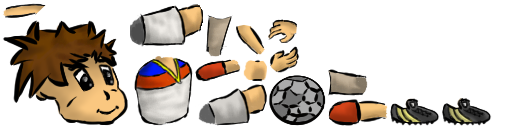
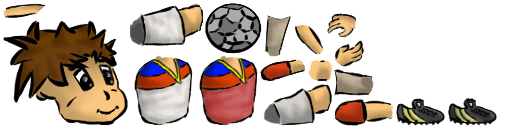
flip added and direction

Changed region(s): [[0.375, 0.0, 0.9688, 1.0]]

diff --git a/brainzballs/src/de/brainzballs/game/footballfield/team/Player.java b/brainzballs/src/de/brainzballs/game/footballfield/team/Player.java
@@ -8,6 +8,7 @@ import com.badlogic.gdx.scenes.scene2d.Actor;
 import com.esotericsoftware.spine.Animation;
 import com.esotericsoftware.spine.AnimationState;
 import com.esotericsoftware.spine.AnimationStateData;
+import com.esotericsoftware.spine.BoneData;
 import com.esotericsoftware.spine.Skeleton;
 import com.esotericsoftware.spine.SkeletonData;
 import com.esotericsoftware.spine.SkeletonJson;
@@ -54,6 +55,7 @@ public class Player extends Actor {
 		//Loading Player Skeleton and Animation
 		TextureAtlas atlas = new TextureAtlas(Gdx.files.internal("data/Field/Player/Player.atlas"));
 		SkeletonJson jsonSkeleton = new SkeletonJson(atlas);
+		jsonSkeleton.setScale(0.5f);
 		skeletonData = jsonSkeleton.readSkeletonData(Gdx.files.internal("data/Field/Player/Player.json"));
 		
 		renderer = new SkeletonRenderer();
@@ -70,11 +72,15 @@ public class Player extends Actor {
 		specialIdle[4] = skeletonData.findAnimation("idle6");
 		idleBall = skeletonData.findAnimation("idle1ball");
 		
-		skeletonData.findBone("root").setScaleX(0.5f);
-		skeletonData.findBone("root").setScaleY(0.5f);
-		
 		skeleton = new Skeleton(skeletonData);
 		skeleton.updateWorldTransform();
+		
+		if(direction == WEST) {
+			skeleton.setFlipX(true);
+			skeleton.setSkin("RedTeam");
+		}else{
+			skeleton.setSkin("WhiteTeam");
+		}
 		
 		AnimationStateData stateData = new AnimationStateData(skeletonData); // Defines mixing (crossfading) between animations.
 		stateData.setMix("run", "idle1", 0.2f);
@@ -194,16 +200,13 @@ public class Player extends Actor {
 	public void draw(Batch batch, float parentAlpha) {
 		super.draw(batch, parentAlpha);
 		
-		batch.end();
-		polyBatch.begin();
-		skeleton.setX((x*64)+64);
-		skeleton.setY((y*64)+96);
-		renderer.draw(polyBatch, skeleton);
+		skeleton.setX((x*64)+32);
+		skeleton.setY((y*64)-32);
+		renderer.draw(batch, skeleton);
 		
-		polyBatch.end();
-		batch.begin();
 	}
 
+	private float blabla = 1;
 	@Override
 	public void act(float delta) {
 		super.act(delta);
